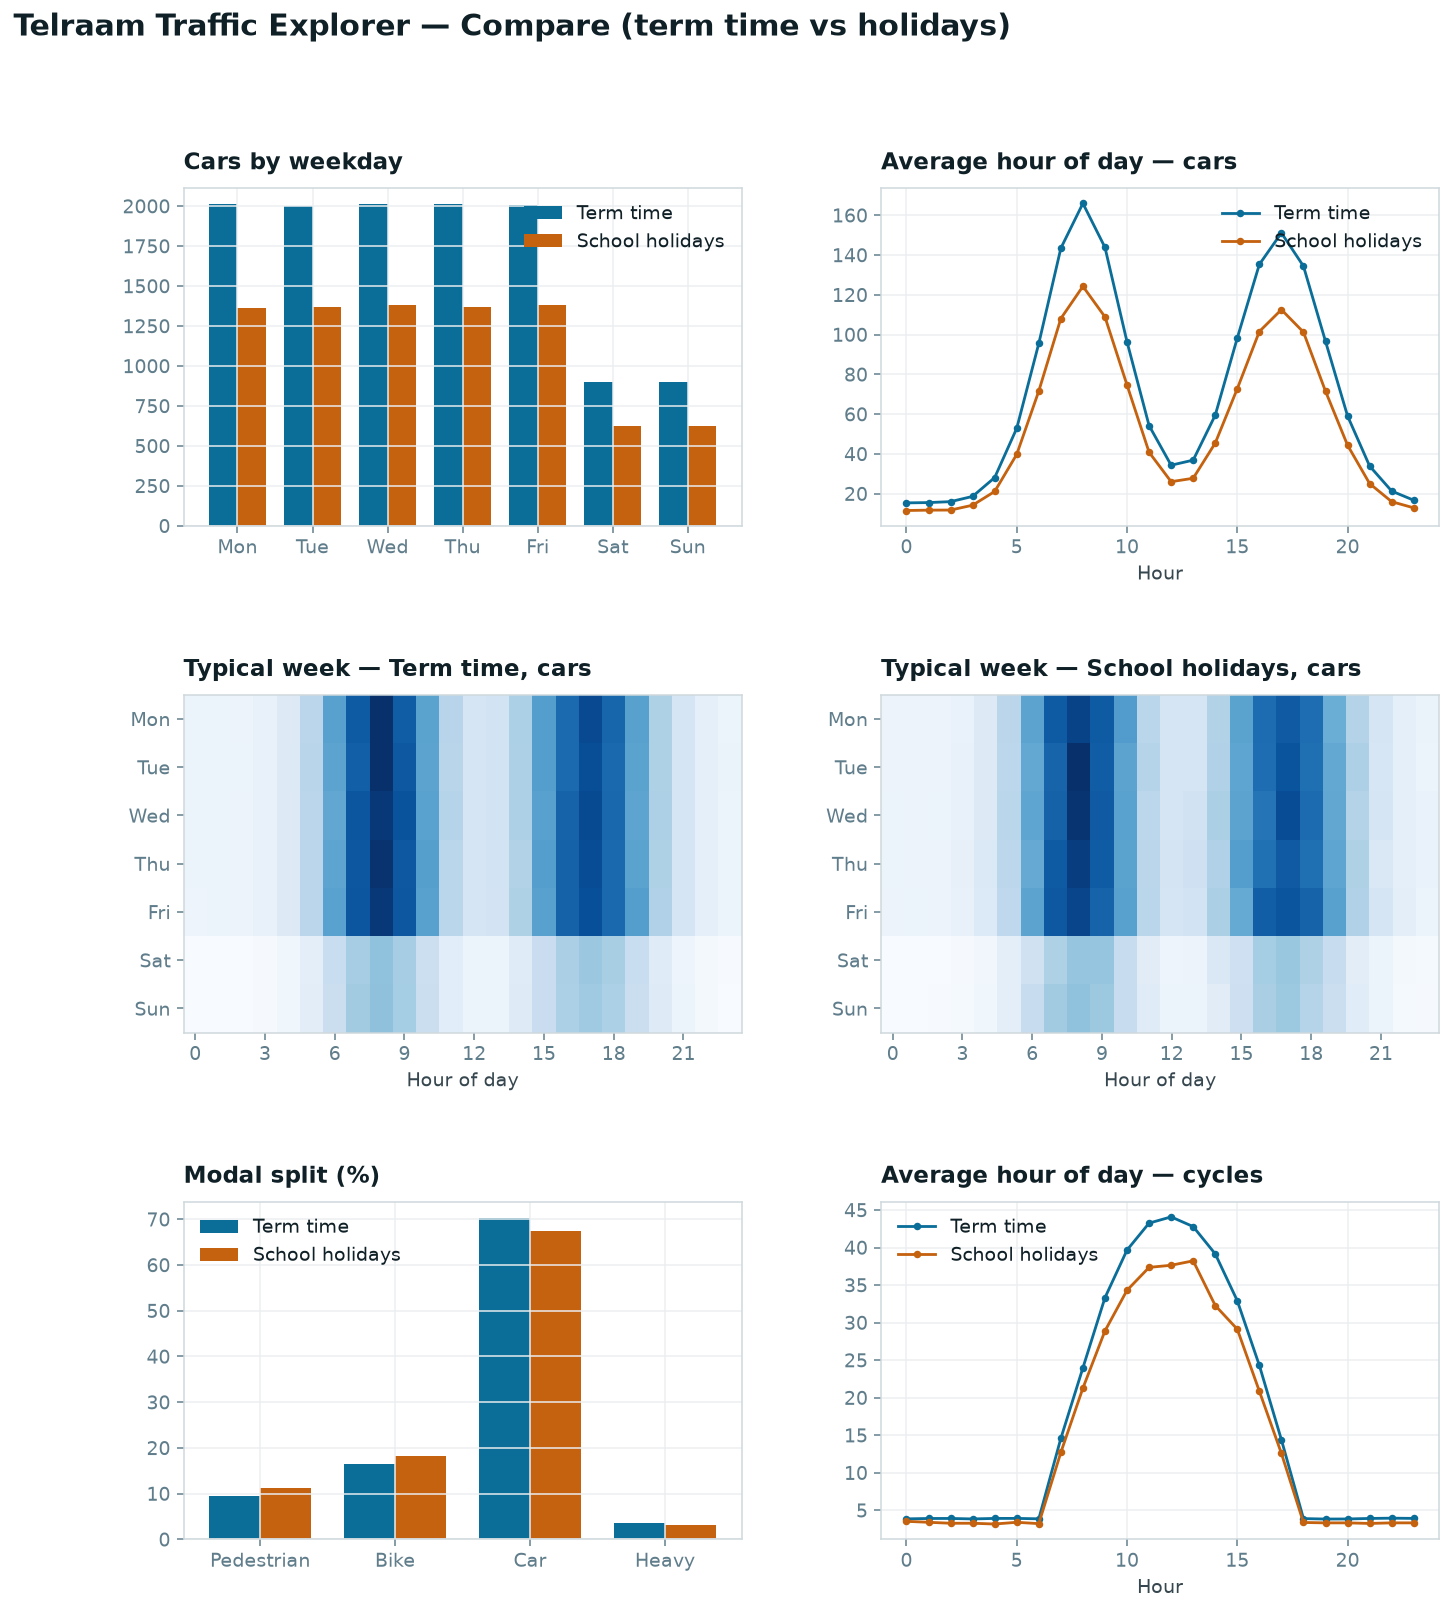
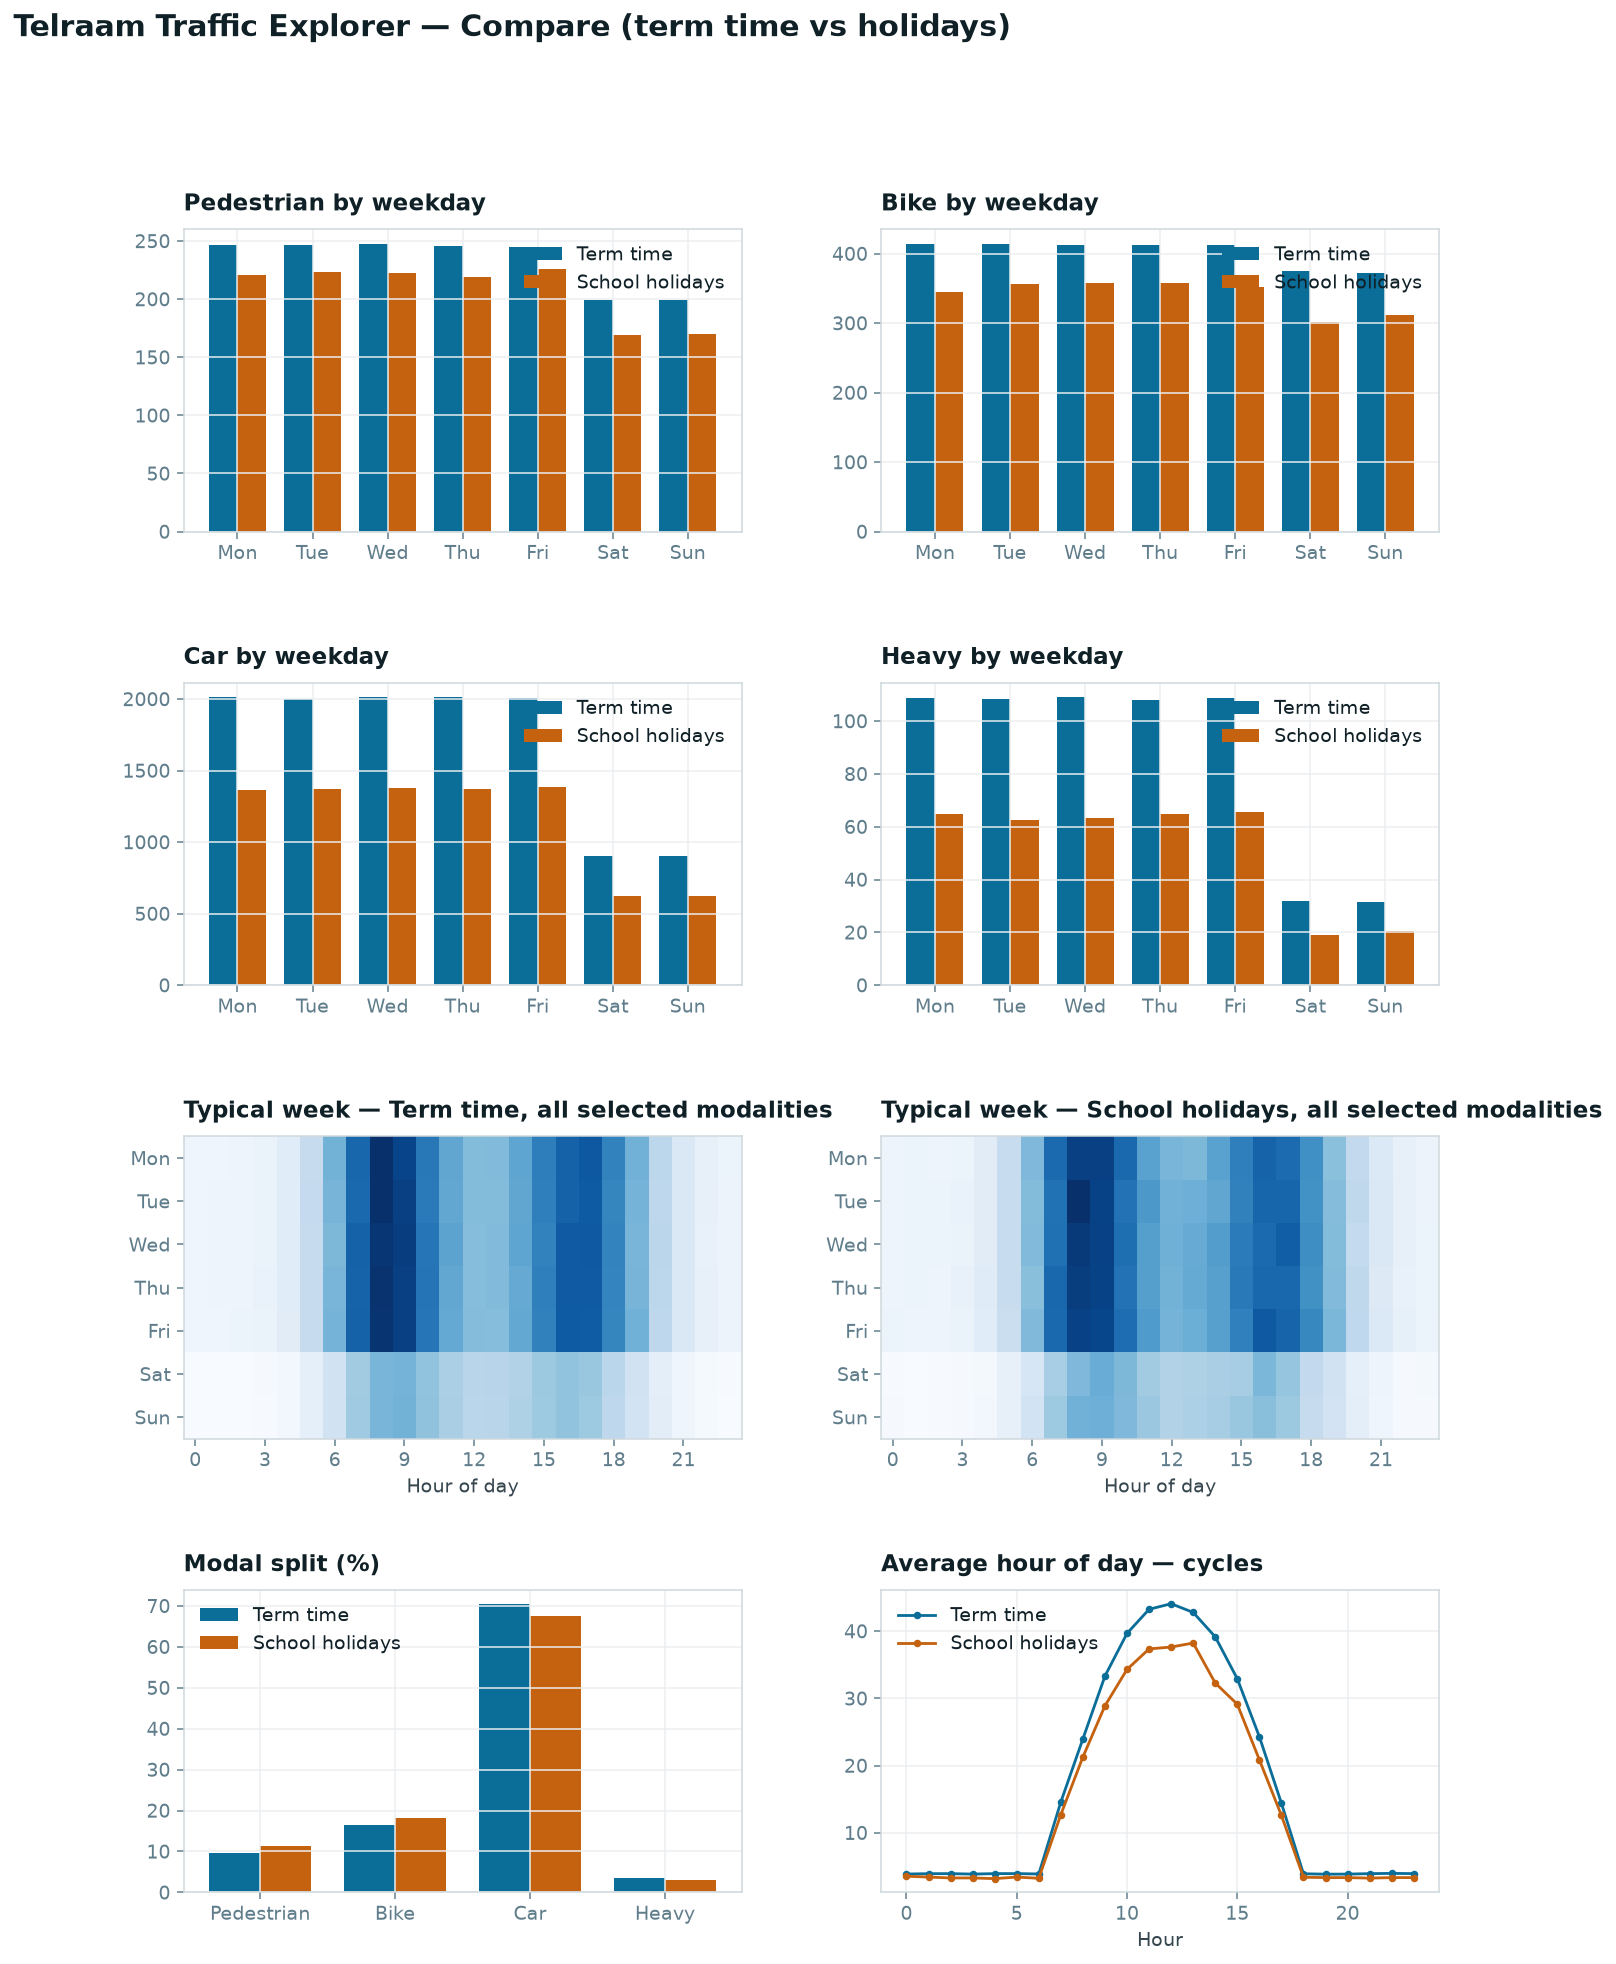
Drive Compare charts from the sidebar modality selection
Drop the Compare-local modality dropdown: the weekday comparison now
renders one panel per modality picked in the sidebar, and the typical
week heatmaps use the combined selection.

diff --git a/scripts/render_previews.py b/scripts/render_previews.py
@@ -328,48 +328,46 @@ def render_compare(out_dir: Path, dpi: int):
         assigned, MODALITIES, group_col="group_label"
     )
     split = compute_modal_split(assigned, MODALITIES, group_col="group_label")
+    combined = assigned.assign(total=assigned[MODALITIES].sum(axis=1))
     typical = compute_typical_week(
-        assigned, MODALITIES, group_col="group_label"
+        combined, ["total"], group_col="group_label"
     )
     groups = list(dict.fromkeys(assigned["group_label"].dropna()))
 
-    fig = plt.figure(figsize=(12, 13))
-    gs = fig.add_gridspec(3, 2, hspace=0.5, wspace=0.25)
+    fig = plt.figure(figsize=(12, 16))
+    gs = fig.add_gridspec(4, 2, hspace=0.5, wspace=0.25)
 
-    ax1 = fig.add_subplot(gs[0, 0])
+    # Weekday comparison: one panel per modality selected in the sidebar.
     x = np.arange(7)
-    for i, group in enumerate(groups):
-        subset = weekday_df[weekday_df["group_label"] == group].set_index("weekday")
-        values = [subset.car.get(d, 0) for d in range(7)]
-        ax1.bar(x + (i - 0.5) * 0.38, values, 0.38, label=group,
-                color=PERIOD_COLOURS[i % len(PERIOD_COLOURS)])
-    ax1.set_xticks(x)
-    ax1.set_xticklabels(WEEKDAY_LABELS)
-    titled(ax1, "Cars by weekday")
-    ax1.legend(frameon=False)
-
-    ax2 = fig.add_subplot(gs[0, 1])
-    for group in groups:
-        subset = profile[profile["group_label"] == group].sort_values("hour")
-        ax2.plot(subset.hour, subset.car, marker="o", ms=3, label=group,
-                 color=PERIOD_COLOURS[groups.index(group) % len(PERIOD_COLOURS)])
-    titled(ax2, "Average hour of day — cars")
-    ax2.set_xlabel("Hour")
-    ax2.legend(frameon=False)
+    for i, modality in enumerate(MODALITIES):
+        ax = fig.add_subplot(gs[i // 2, i % 2])
+        for j, group in enumerate(groups):
+            subset = weekday_df[
+                weekday_df["group_label"] == group
+            ].set_index("weekday")
+            values = [subset[modality].get(d, 0) for d in range(7)]
+            ax.bar(x + (j - 0.5) * 0.38, values, 0.38, label=group,
+                   color=PERIOD_COLOURS[j % len(PERIOD_COLOURS)])
+        ax.set_xticks(x)
+        ax.set_xticklabels(WEEKDAY_LABELS)
+        titled(ax, f"{modality.title()} by weekday")
+        ax.legend(frameon=False)
 
     for i, group in enumerate(groups[:2]):
-        ax = fig.add_subplot(gs[1, i])
-        matrix = weekday_hour_matrix(typical, group, "car", group_col="group_label")
+        ax = fig.add_subplot(gs[2, i])
+        matrix = weekday_hour_matrix(
+            typical, group, "total", group_col="group_label"
+        )
         ax.imshow(matrix.values, aspect="auto", cmap="Blues")
         ax.set_yticks(range(7))
         ax.set_yticklabels(list(matrix.index))
         ax.set_xticks(range(0, 24, 3))
         ax.set_xticklabels(list(range(0, 24, 3)))
-        titled(ax, f"Typical week — {group}, cars")
+        titled(ax, f"Typical week — {group}, all selected modalities")
         ax.set_xlabel("Hour of day")
         ax.grid(False)
 
-    ax3 = fig.add_subplot(gs[2, 0])
+    ax3 = fig.add_subplot(gs[3, 0])
     xm = np.arange(len(MODALITIES))
     for i, group in enumerate(groups):
         row = split[split["group_label"] == group].iloc[0]
@@ -380,7 +378,7 @@ def render_compare(out_dir: Path, dpi: int):
     titled(ax3, "Modal split (%)")
     ax3.legend(frameon=False)
 
-    ax4 = fig.add_subplot(gs[2, 1])
+    ax4 = fig.add_subplot(gs[3, 1])
     for i, group in enumerate(groups):
         subset = profile[profile["group_label"] == group].sort_values("hour")
         ax4.plot(subset.hour, subset.bike, marker="o", ms=3, label=group,

diff --git a/views/compare.py b/views/compare.py
@@ -15,7 +15,7 @@ from charts import (
     plot_modal_split,
     plot_weekday_comparison,
 )
-from ui.components import typical_week_heatmaps
+from ui.components import ALL_OPTION, typical_week_heatmaps
 from ui.state import get_controls, prepared_df
 from ui.theme import page_header
 
@@ -51,24 +51,22 @@ def render() -> None:
         daily, modalities, group_col=GROUP_COL
     )
 
-    default_modality = "car" if "car" in modalities else modalities[0]
-    modality = st.selectbox(
-        "Modality",
-        modalities,
-        index=modalities.index(default_modality),
-        key="compare_modality",
-    )
-    st.plotly_chart(
-        plot_weekday_comparison(weekday_df, modality, group_col=GROUP_COL),
-        use_container_width=True,
-        key="compare_weekday",
-    )
+    st.subheader("Weekday comparison")
+    columns = st.columns(2)
+    for i, modality in enumerate(modalities):
+        columns[i % 2].plotly_chart(
+            plot_weekday_comparison(
+                weekday_df, modality, group_col=GROUP_COL
+            ),
+            use_container_width=True,
+            key=f"compare_weekday_{modality}",
+        )
 
     st.divider()
     typical_week_heatmaps(
         df,
         modalities,
-        modality,
+        ALL_OPTION,
         controls.comparison,
         key_prefix="compare_typical",
     )

diff --git a/tests/test_views_smoke.py b/tests/test_views_smoke.py
@@ -80,14 +80,6 @@ def test_trends_modality_filter_offers_all():
     assert "All" in boxes["Trend modality"].options
 
 
-def test_compare_modality_defaults_to_car():
-    at = AppTest.from_function(_view_script, default_timeout=30).run()
-    assert not at.exception
-    boxes = {box.label: box for box in at.selectbox}
-    # Compare offers no "All" option, so it should default to cars.
-    assert boxes["Modality"].value == "car"
-
-
 def test_typical_week_groups_follow_the_comparison_axis():
     import pandas as pd
 

diff --git a/README.md b/README.md
@@ -31,9 +31,9 @@ trends. This app fills that gap.
 - **Trends over time** — daily totals with a rolling average and a
   weekday-adjusted trend. Periods are shaded as bands on the timeline, clipped
   to the loaded data so future calendar years don't add blank space.
-- **Compare** — weekday-aligned bars, typical-week heatmaps broken down by the
-  chosen comparison axis (one plot per group, e.g. weekday vs weekend), hourly
-  profiles and modal split.
+- **Compare** — weekday-aligned bars per modality selected in the sidebar,
+  typical-week heatmaps broken down by the chosen comparison axis (one plot
+  per group, e.g. weekday vs weekend), hourly profiles and modal split.
 - **Exclusions** — drop roadworks, closures or other anomalies from analysis;
   excluded ranges are shown on the trend chart.
 - **Speed, modal split and hourly profiles** — a speed distribution and a V85
